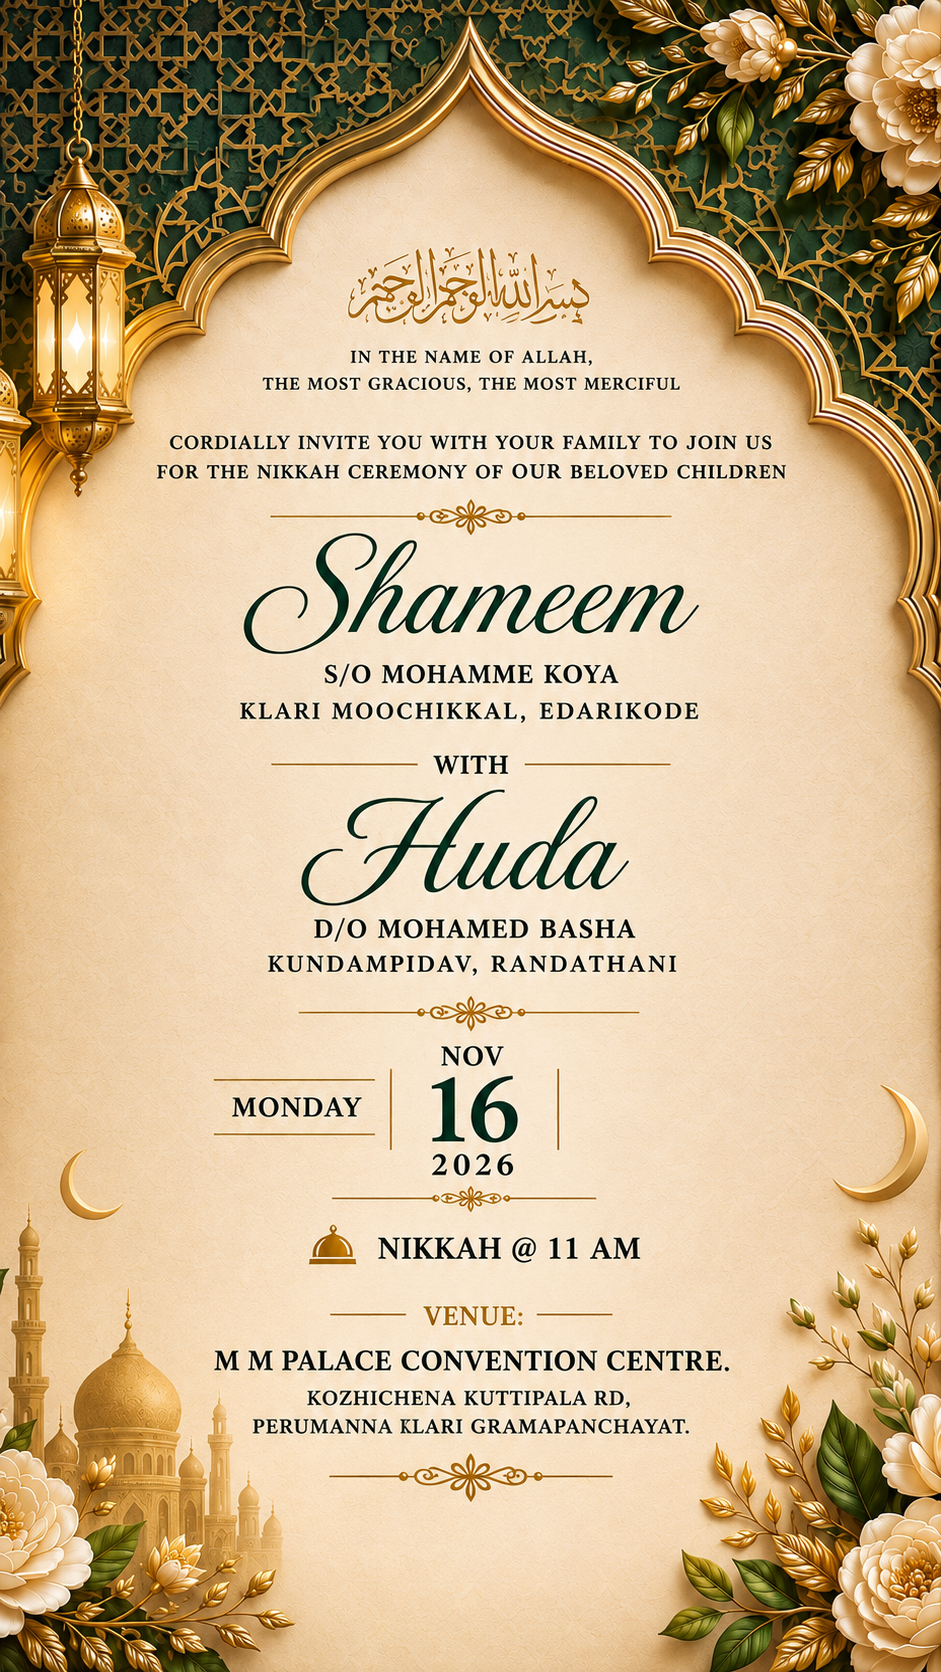
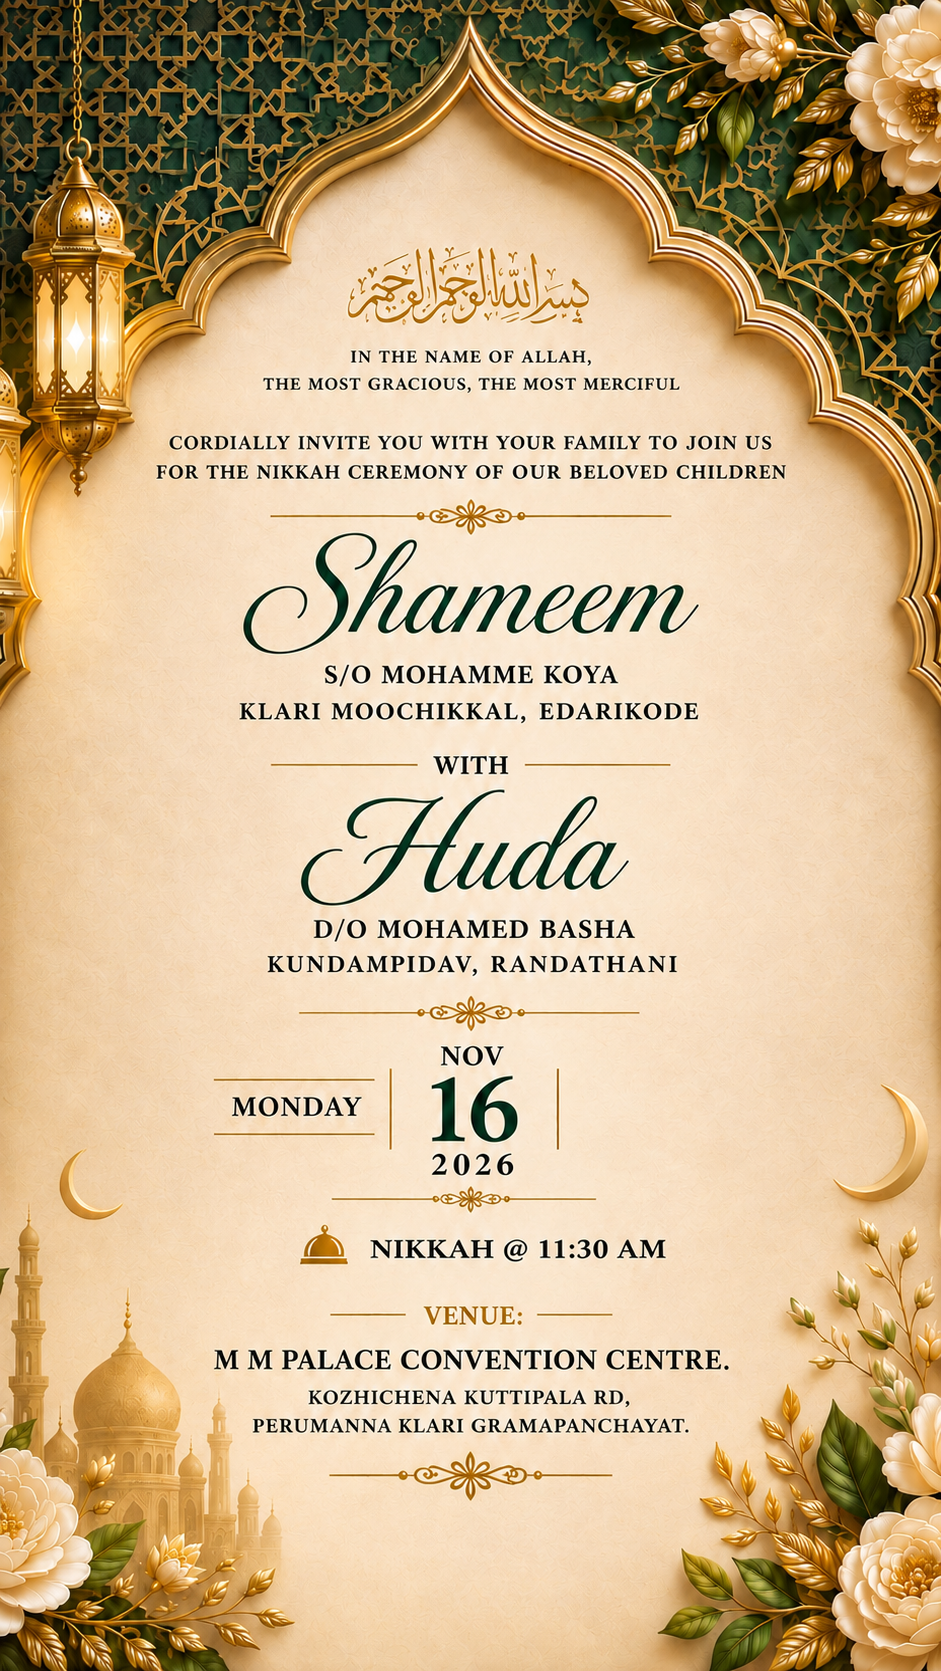
fcwef

diff --git a/index.html b/index.html
@@ -238,7 +238,7 @@
 
       <p class="hero-date">
         <span class="hero-date__en">Monday · 16 November 2026</span>
-        <span class="hero-date__ml">Insha Allah · 11.00 AM</span>
+        <span class="hero-date__ml">Insha Allah · 11:30 AM</span>
       </p>
     </div>
     -->
@@ -270,7 +270,7 @@
 
         <p class="lede reveal" data-delay="1">
           In the name of Allah, the most Gracious and the most Merciful.
-          Mohamme Koya &amp; Family (Klari Moochikkal, Edarikode) cordially invite you
+          Kunhan &amp; Family (Klari Moochikkal, Edarikode) cordially invite you
           to the Nikah of their beloved son <em>Shameem</em> with <em>Huda</em>
           (D/o Mohamed basha, Kundampidav, Randathani).
           Your gracious presence and prayers will make our celebration truly blessed.
@@ -290,7 +290,7 @@
               <use href="#i-clock"></use>
             </svg>
             <span class="fact-k">Time</span>
-            <span class="fact-v">11.00 AM</span>
+            <span class="fact-v">11:30 AM</span>
             <span class="fact-s">Nikkah</span>
           </li>
           <li class="fact reveal" data-delay="3">
@@ -306,7 +306,7 @@
               <use href="#i-bell"></use>
             </svg>
             <span class="fact-k">Inviter</span>
-            <span class="fact-v">Mohamme Koya &amp; Family</span>
+            <span class="fact-v">Kunhan &amp; Family</span>
             <span class="fact-s">Klari Moochikkal, Edarikode</span>
           </li>
         </ul>
@@ -378,7 +378,7 @@
               <use href="#i-ring"></use>
             </svg>
             <h3 class="card-title">Forever, From Here</h3>
-            <p>On Monday, 16 November 2026, at 11.00 AM, Shameem and Huda begin their journey as
+            <p>On Monday, 16 November 2026, at 11:30 AM, Shameem and Huda begin their journey as
               husband and wife. As they step into this new chapter (Insha Allah), they seek the blessings, love, and
               prayers of everyone who joins them in celebrating this special occasion.</p>
           </article>
@@ -412,8 +412,8 @@
             <div class="tl-body">
               <p class="tl-date">Monday, 16 November 2026 · Insha Allah</p>
               <h3 class="tl-title">Nikkah Ceremony</h3>
-              <p class="tl-meta">11.00 AM · M M Palace Convention Centre, Kozhichena Kuttipala Rd</p>
-              <p class="tl-text">Solemnised according to Islamic traditions and sacred Nikah rituals at 11.00 AM.</p>
+              <p class="tl-meta">11:30 AM · M M Palace Convention Centre, Kozhichena Kuttipala Rd</p>
+              <p class="tl-text">Solemnised according to Islamic traditions and sacred Nikah rituals at 11:30 AM.</p>
             </div>
           </li>
 
@@ -449,7 +449,7 @@
             </div>
             <p class="person-role">The Groom</p>
             <h3 class="person-name">Shameem</h3> 
-            <p class="person-line">Son of Mohamme Koya</p>
+            <p class="person-line">Son of Kunhan</p>
             <p class="person-place">Klari Moochikkal, Edarikode</p>
           </article>
 
@@ -515,7 +515,7 @@
               <use href="#i-pillar"></use>
             </svg>
             <p class="family-tag">Groom's Family</p>
-            <h3 class="family-name">Mohamme Koya &amp; Family</h3>
+            <h3 class="family-name">Kunhan &amp; Family</h3>
             <p class="family-amp">Klari Moochikkal</p>
             <h3 class="family-name">Edarikode</h3>
             <p class="family-home">Malappuram, Kerala</p>
@@ -560,7 +560,7 @@
           <dl class="tc-list">
             <div class="tc-row">
               <dt><svg class="ico"><use href="#i-clock"></use></svg> Time</dt>
-              <dd>11.00 AM</dd>
+              <dd>11:30 AM</dd>
             </div>
             <div class="tc-row">
               <dt><svg class="ico"><use href="#i-pin"></use></svg> Venue</dt>
@@ -606,7 +606,7 @@
             <p class="lux-eyebrow">You are cordially invited</p>
             <h3 class="lux-day">Monday</h3>
             <p class="lux-date">16 November 2026</p>
-            <p class="lux-time">Nikkah: 11.00 AM</p>
+            <p class="lux-time">Nikkah: 11:30 AM</p>
           </div>
           <span class="lux-card__rule" aria-hidden="true"></span>
           <div class="lux-card__col">
